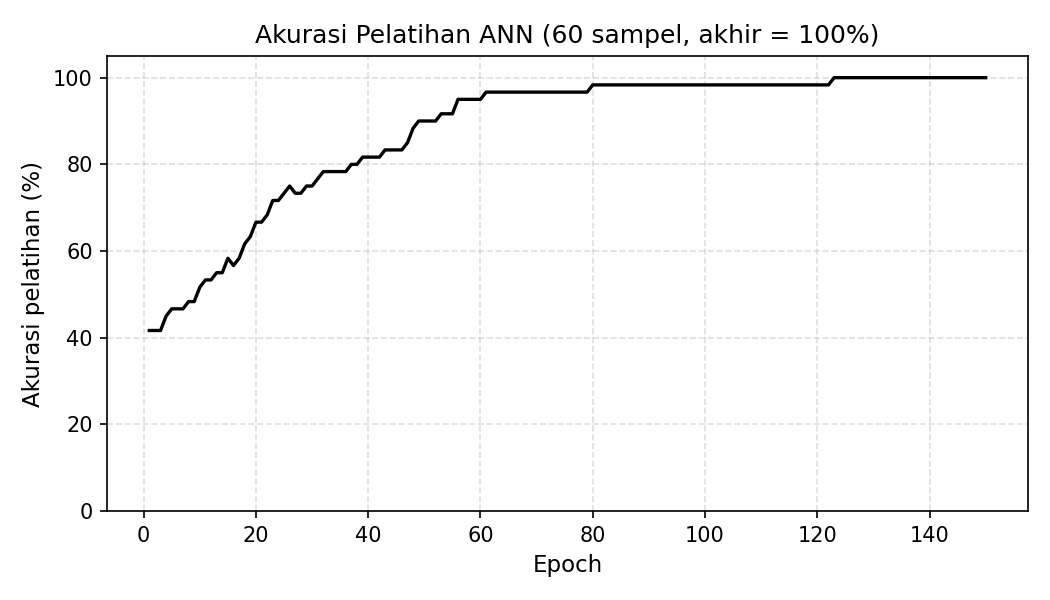
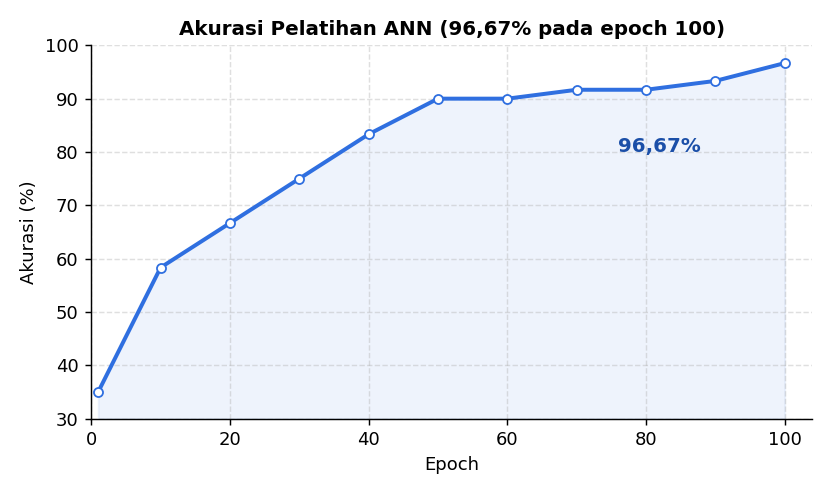
README: akurasi run final 96,67% + grafik dari data pelatihan asli

diff --git a/README.md b/README.md
@@ -87,7 +87,7 @@ kelas; pasangan input–label tetap konsisten.
 </p>
 
 **6. Pembuktian — ANN** — ANN dilatih pada dataset hasil pipeline dan mencapai
-akurasi ~98–100% pada 3 kelas Katakana.
+akurasi 96,67% pada 3 kelas Katakana (100 epoch).
 
 <p align="center">
   <img src="assets/grafik_akurasi.png" alt="Grafik akurasi pelatihan" width="70%">
@@ -157,4 +157,4 @@ visionprep/
 - **Tanpa pustaka pihak ketiga di inti.** Grayscale, pooling, binarisasi,
   flattening, pengacakan, dan ANN seluruhnya implementasi NumPy manual.
 - **Pembuktian dataset.** ANN dilatih pada dataset hasil pipeline dan mencapai
-  akurasi ~98–100% pada 3 kelas Katakana, membuktikan dataset terpisah dengan baik.
+  akurasi 96,67% pada 3 kelas Katakana (100 epoch), membuktikan dataset terpisah dengan baik.